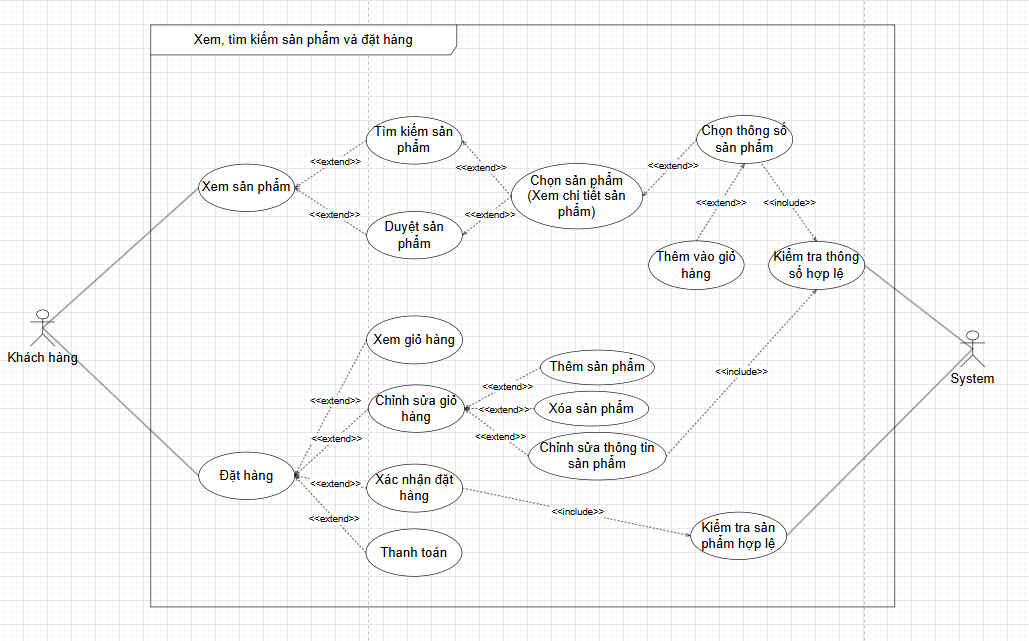
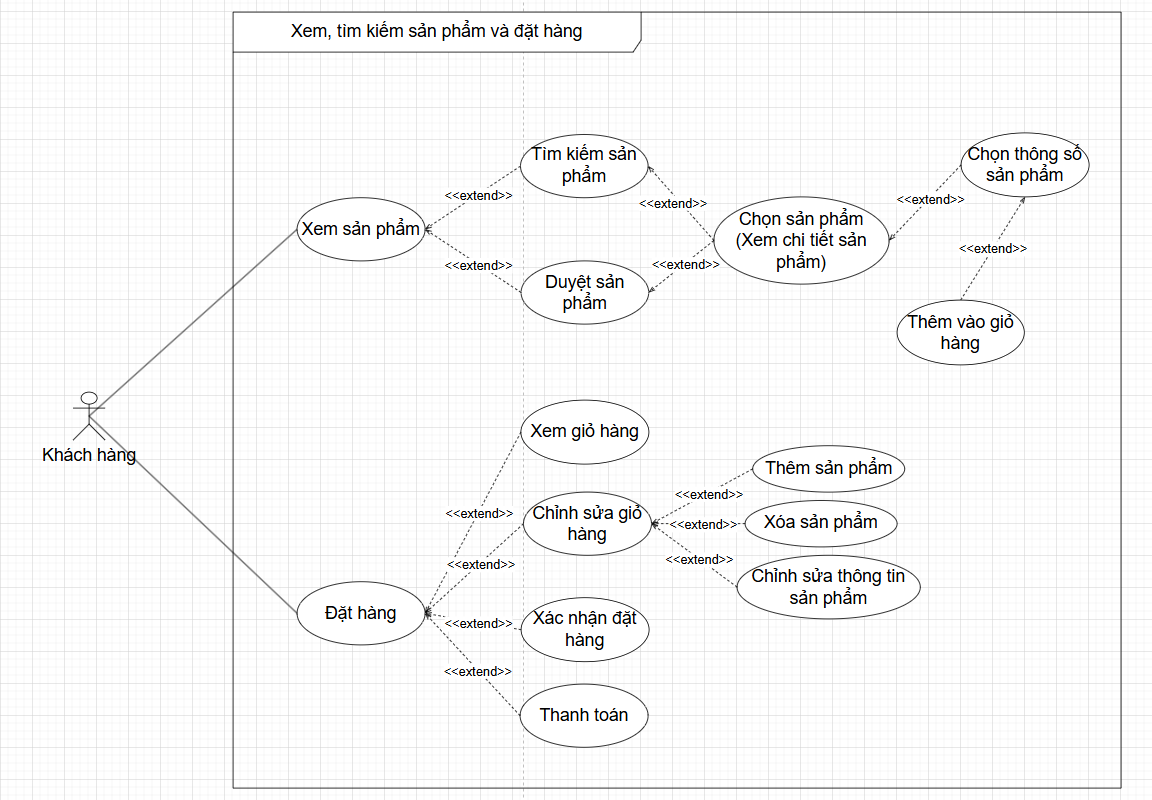
UC1 updated + Mô tả dự án

diff --git a/README.md b/README.md
@@ -1,3 +1,59 @@
-# -PTTKHT-E-Commerce-Website
-1. Giới thiệu
-Website bán sản phẩm là một hệ thống thương mại điện tử, cho phép người dùng mua sắm trực tuyến và quản lý sản phẩm một cách hiệu quả. Hệ thống bao gồm các chức năng chính như quản lý sản phẩm, quản lý người dùng, xử lý thanh toán và quản lý đơn hàng.
+============================================================
+HỆ THỐNG THƯƠNG MẠI ĐIỆN TỬ - PHÂN TÍCH VÀ THIẾT KẾ HỆ THỐNG
+============================================================
+
+📌 GIỚI THIỆU DỰ ÁN
+--------------------
+Dự án này là mô hình phân tích và thiết kế hệ thống cho một nền tảng thương mại điện tử. Hệ thống cho phép người dùng tìm kiếm và đặt mua sản phẩm trực tuyến, thanh toán đơn hàng, xử lý khiếu nại hoàn trả, và hỗ trợ người bán quản lý sản phẩm cũng như đơn hàng.
+
+Hệ thống được xây dựng với mục tiêu mô phỏng quy trình nghiệp vụ của một sàn thương mại điện tử phổ biến, từ góc độ người dùng và người bán hàng, thông qua các ca sử dụng cụ thể.
+
+🌐 MÔI TRƯỜNG HOẠT ĐỘNG
+------------------------
+- Nền tảng: Web (thiết kế hướng triển khai thực tế)
+- Ngôn ngữ phân tích: UML
+- Công cụ hỗ trợ: Draw.io/ Figma
+
+🧩 CHỨC NĂNG CHÍNH (CA SỬ DỤNG)
+-------------------------------
+1. **Khách hàng xem, tìm kiếm sản phẩm và đặt hàng**
+   - Duyệt danh mục, tìm kiếm theo từ khóa
+   - Xem chi tiết sản phẩm và đánh giá
+   - Thêm sản phẩm vào giỏ hàng và đặt hàng
+
+2. **Khách hàng thanh toán**
+   - Nhập thông tin giao hàng
+   - Chọn phương thức thanh toán (VISA, NAPAS, ví điện tử, COD,...)
+   - Nhận thông báo xác nhận từ hệ thống
+
+3. **Khách hàng khiếu nại và hoàn trả sản phẩm**
+   - Gửi yêu cầu khiếu nại, trả hàng
+   - Theo dõi quá trình xử lý khiếu nại
+   - Nhận kết quả giải quyết từ hệ thống
+
+4. **Người bán quản lý sản phẩm và đơn hàng**
+   - Đăng sản phẩm, cập nhật thông tin và khuyến mãi
+   - Theo dõi và xử lý đơn hàng
+   - Phản hồi khiếu nại từ khách hàng
+
+📁 CẤU TRÚC THƯ MỤC (Tùy chọn)
+-------------------------------
+- /Activity Diagram      : Biểu đồ hoạt động (Activity Diagram) cho các ca sử dụng
+- /Class Diagram         : Biểu đồ lớp(biểu đồ đối tượng, biểu đồ lĩnh vực, biểu đồ lớp theo ca sử dụng)
+- /Database Design       : Thiết kế CSDL(biểu đồ ERD)
+- /Sequence Diagram      : Biểu đồ tuần tự(mức hệ thống, mức nghiệp vụ)
+- /State-machine Diagram : Biểu đồ máy trạng thái của đối tượng đặc trưng
+- /Thiết kế hệ thống     : Các biểu đồ chi tiết lớp, biểu đồ gói
+- /Use-case Diagram      : Biểu đồ ca sử dụng
+- /README.txt            : Mô tả dự án
+
+📬 LIÊN HỆ
+----------
+- Tác giả: Tô Hùng Anh (20225164), Lê Huy Dũng (20224960), Lê Nam Phong (20225149), Trần Đức Thu (20225412), Nguyễn Ngọc Thương (20204855)
+- Thông tin: Nhóm 20 - Lớp 157516 - Phân tích và thiết kế hệ thống 20242
+- Trường/Viện: Trường Công nghệ thông tin và Truyền thông
+- Liên hệ đại diện: hunganh1310.work@gmail.com
+
+📄 GIẤY PHÉP
+------------
+Dự án phục vụ mục đích học thuật và nghiên cứu. Vui lòng ghi nguồn khi sử dụng lại nội dung.
